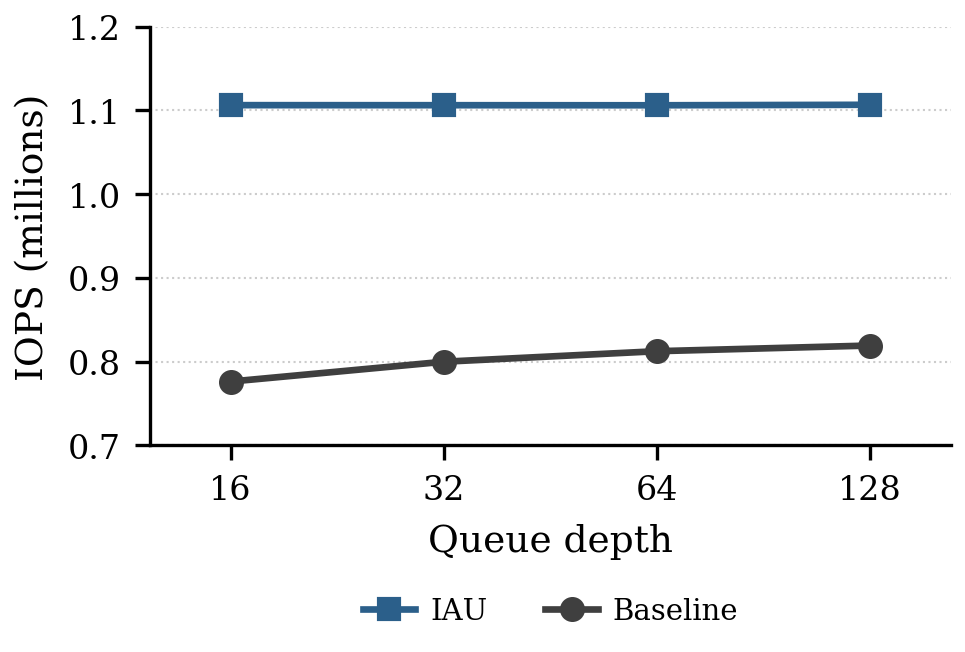
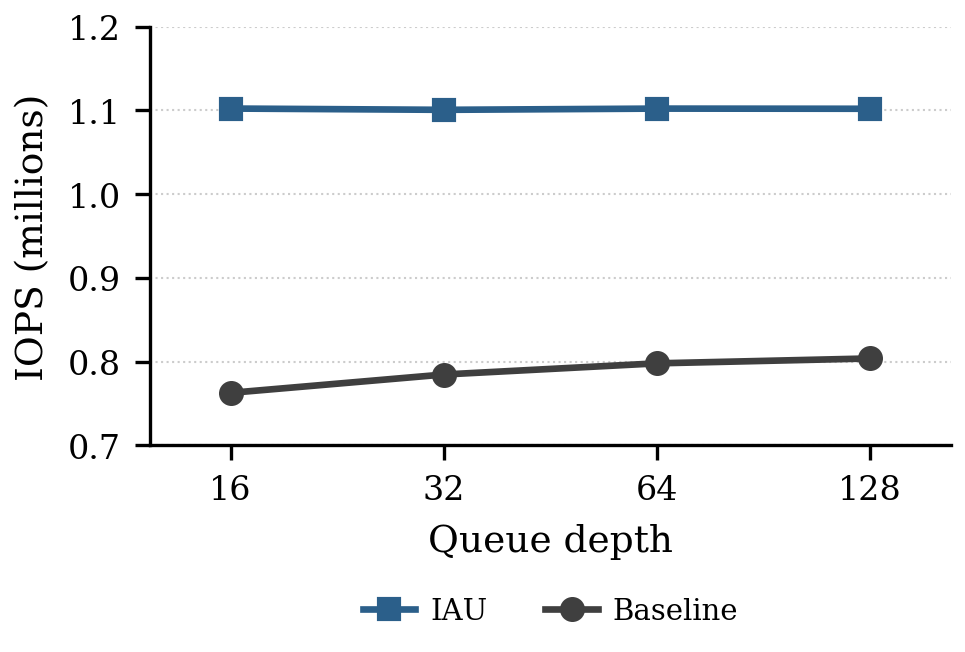
docs: present BigANN trace as the sole Evaluation workload
The synthetic 4 KB random-read and BigANN results are within ~2%, so §4 now
presents BigANN throughout and keeps the 4 KB run only as a one-line
robustness cross-check. Switch the QD-sweep plot to the BigANN CSVs and
update all §4 numbers to BigANN: 1.37x headline at QD=128 (0.804 -> 1.102 M),
budget 2,490 -> 1,815 cycles, poll collapse 219,100 -> 8,609, sweep lift
1.44/1.40/1.38/1.37x (peak 1.44x = the intro's "up to"), and the 2,490 ->
3,730 cyc/IO calibration. Ablation kept as a ratio (no BigANN ablation run
exists).

Changed region(s): [[0.2176, 0.5215, 0.9326, 0.6442], [0.2176, 0.1227, 0.9016, 0.184]]

diff --git a/scripts/plot_qd_sweep.py b/scripts/plot_qd_sweep.py
@@ -1,12 +1,12 @@
 #!/usr/bin/env python3
 """
 Queue-depth sweep for paper Section 4.2 (Figure F3, fig:qd_sweep): IOPS
-versus queue depth, vanilla SPDK baseline vs IAU, on the 4 KB random-read
-workload, 1 core / 1 qpair.
+versus queue depth, vanilla SPDK baseline vs IAU, on the DiskANN BigANN
+trace replay, 1 core / 1 qpair.
 
 This is the headline results figure. The load-bearing visual is the flat IAU
-IOPS curve: IAU saturates the host core at ~1.106 M IOPS for every queue
-depth, well above the baseline that only inches from 776 K to 819 K across an
+IOPS curve: IAU saturates the host core at ~1.102 M IOPS for every queue
+depth, well above the baseline that only inches from 763 K to 804 K across an
 8x queue-depth increase, identifying IAU as a new CPU-bound ceiling.
 
 Only IOPS is plotted. Cycles/IO is the exact inverse of IOPS (clock / IOPS),
@@ -15,12 +15,12 @@ overlap the baseline IOPS line and invite misreading; the per-stage cycle
 story already lives in fig:iau_breakdown. The cycles/IO equivalents are still
 printed to stdout for the prose in Section 4.
 
-Data sources (the two admissible rand4k runs; all QD rows)
-----------------------------------------------------------
+Data sources (the admissible BigANN trace runs; all QD rows)
+------------------------------------------------------------
   vanilla SPDK baseline:
-      results/rand4k_1c1qp/rand4k_mode0_20260510/core0_qp1/phase1_results.csv
+      results/bigann_trace_1c1qp/paper_trace_mode0_20260510/core0_qp1/phase1_results.csv
   IAU:
-      results/rand4k_1c1qp/rand4k_mode2_20260510/core0_qp1/phase1_results.csv
+      results/bigann_trace_1c1qp/paper_trace_mode2_20260510/core0_qp1/phase1_results.csv
 
 The transparent-IAU ablation (mode 1) is deliberately not plotted, per the
 Section 4 outline: its shallow-QD dip is a one-sentence ablation, not a curve.
@@ -58,9 +58,9 @@ matplotlib.use("Agg")
 import matplotlib.pyplot as plt
 
 
-BASELINE_CSV = ("results/rand4k_1c1qp/rand4k_mode0_20260510/"
+BASELINE_CSV = ("results/bigann_trace_1c1qp/paper_trace_mode0_20260510/"
                 "core0_qp1/phase1_results.csv")
-IAU_CSV = ("results/rand4k_1c1qp/rand4k_mode2_20260510/"
+IAU_CSV = ("results/bigann_trace_1c1qp/paper_trace_mode2_20260510/"
            "core0_qp1/phase1_results.csv")
 HOST_HZ = 2.0e9
 

diff --git a/docs/PAPER_DRAFT.md b/docs/PAPER_DRAFT.md
@@ -168,12 +168,12 @@ RTL synthesis at ASAP7 7nm across the four configurations yields 30K to 93K stan
 \subsection{Methodology}
 \label{sec:eval-method}
 
-We evaluate IAU on a full-system gem5~\cite{binkert2011gem5} x86 simulation running the unmodified \texttt{spdk\_nvme\_perf} workload against a SimpleSSD~\cite{jung2017simplessd} device. To keep the host CPU the binding constraint at the multi-million-IOPS regime, SimpleSSD uses an aggregate-timing fast path with an aggregate ceiling near 8~M IOPS, about ten times the single-queue host rate, following the device-modeling precedent of NVMeVirt~\cite{nvmevirt_fast23} and FEMU~\cite{femu_fast18} while keeping completion publication cycle-accurate. The host is a gem5 \texttt{AtomicSimpleCPU} at 2~GHz with no caches and \texttt{mem\_mode=atomic}, driving a single queue pair at queue depths from 16 to 128 over two workloads, synthetic 4~KB random reads and a DiskANN BigANN trace replay~\cite{diskann-github}. We report IOPS, cycles per I/O at the host clock, per-stage nanoseconds per I/O, and the completion-poll and per-mechanism correctness counters. The simplified host is what makes the sweep tractable, and because the vanilla SPDK baseline and IAU run under the identical model the host-side savings ratio cancels the host-model bias; the baseline budget of about 2{,}440 cycles per I/O at 2~GHz scales to about 3{,}660 at 3~GHz, inside the realistic 1{,}500 to 4{,}000 range for single-queue SPDK on production NVMe~\cite{Yang2017SPDKAD}.
+We evaluate IAU on a full-system gem5~\cite{binkert2011gem5} x86 simulation running the unmodified \texttt{spdk\_nvme\_perf} workload against a SimpleSSD~\cite{jung2017simplessd} device. To keep the host CPU the binding constraint at the multi-million-IOPS regime, SimpleSSD uses an aggregate-timing fast path with an aggregate ceiling near 8~M IOPS, about ten times the single-queue host rate, following the device-modeling precedent of NVMeVirt~\cite{nvmevirt_fast23} and FEMU~\cite{femu_fast18} while keeping completion publication cycle-accurate. The host is a gem5 \texttt{AtomicSimpleCPU} at 2~GHz with no caches and \texttt{mem\_mode=atomic}, driving a single queue pair at queue depths from 16 to 128 on a DiskANN BigANN trace replay of 1{,}225{,}846 4~KB reads~\cite{diskann-github}. We report IOPS, cycles per I/O at the host clock, per-stage nanoseconds per I/O, and the completion-poll and per-mechanism correctness counters. The simplified host is what makes the sweep tractable, and because the vanilla SPDK baseline and IAU run under the identical model the host-side savings ratio cancels the host-model bias; the baseline budget of about 2{,}490 cycles per I/O at 2~GHz scales to about 3{,}730 at 3~GHz, inside the realistic 1{,}500 to 4{,}000 range for single-queue SPDK on production NVMe~\cite{Yang2017SPDKAD}.
 
 \subsection{IAU results}
 \label{sec:eval-results}
 
-Section~\ref{subsec:perio} established that the vanilla SPDK baseline saturates near 0.82~M IOPS with a per-I/O budget flat across queue depth, and this section measures how much of that budget IAU removes. At QD=128 on 4~KB random reads, IAU sustains 1.106~M IOPS against the 0.819~M baseline, a 1.35$\times$ lift that cuts the per-I/O budget from about 2{,}440 to 1{,}810 cycles, and the DiskANN BigANN trace reproduces this at 1.102~M against its own 0.804~M baseline, a 1.37$\times$ lift on a non-synthetic access pattern.
+Section~\ref{subsec:perio} established that the vanilla SPDK baseline saturates near 0.8~M IOPS with a per-I/O budget flat across queue depth, and this section measures how much of that budget IAU removes on the DiskANN BigANN trace. At QD=128, IAU sustains 1.102~M IOPS against the 0.804~M baseline, a 1.37$\times$ lift that cuts the per-I/O budget from about 2{,}490 to 1{,}815 cycles.
 
 \begin{figure}[t]
 \centering
@@ -182,23 +182,23 @@ Section~\ref{subsec:perio} established that the vanilla SPDK baseline saturates 
 \label{fig:iau_breakdown}
 \end{figure}
 
-Figure~\ref{fig:iau_breakdown} attributes the saving to the submission side. The SQ Engine's on-die SQE and PRP-list construction collapses the dominant stages, with address translation falling from 357 to 157~ns and tracker allocation from 236 to 221~ns on the BigANN trace, while the completion handler survives nearly intact because the host still runs the user callback and the larger completion saving awaits the deferred dispatcher of \S\ref{sec:iau-mechanisms}. The completion-poll counters confirm that the completion-side coherence cost of \S\ref{subsec:NVMEQE} is removed. At QD=128 the baseline issues 223{,}698 \texttt{process\_completions} calls of which about 97\% return zero completions, whereas under IAU the count collapses to 8{,}646 with no empty polls and 128 completions per call, since the CQ Engine's readiness hint replaces the empty ring scan with a single on-die status-register read.
+Figure~\ref{fig:iau_breakdown} attributes the saving to the submission side. The SQ Engine's on-die SQE and PRP-list construction collapses the dominant stages, with address translation falling from 357 to 157~ns and tracker allocation from 236 to 221~ns on the BigANN trace, while the completion handler survives nearly intact because the host still runs the user callback and the larger completion saving awaits the deferred dispatcher of \S\ref{sec:iau-mechanisms}. The completion-poll counters confirm that the completion-side coherence cost of \S\ref{subsec:NVMEQE} is removed. At QD=128 the baseline issues 219{,}100 \texttt{process\_completions} calls of which about 97\% return zero completions, whereas under IAU the count collapses to 8{,}609 with no empty polls and 128 completions per call, since the CQ Engine's readiness hint replaces the empty ring scan with a single on-die status-register read.
 
 \begin{figure}[t]
 \centering
 \includegraphics[width=\columnwidth]{img/qd_sweep.png}
-\caption{IOPS versus queue depth for the vanilla SPDK baseline and IAU on 4~KB random reads. IAU's IOPS stays flat across the sweep, marking a new CPU-bound ceiling well above the baseline and well below the device aggregate.}
+\caption{IOPS versus queue depth for the vanilla SPDK baseline and IAU on the DiskANN BigANN trace. IAU's IOPS stays flat across the sweep, marking a new CPU-bound ceiling well above the baseline and well below the device aggregate.}
 \label{fig:qd_sweep}
 \end{figure}
 
-Two further results fix the design boundary. A transparent-IAU ablation that activates the uncore behind an unmodified SPDK reaches only 0.808~M IOPS at QD=128, about 0.99$\times$ the baseline, because batching completions alone cannot move a submission-dominated budget; the lift therefore requires the small host-side mailbox enablement of \S\ref{sec:iau-placement} rather than a fully transparent design. As Figure~\ref{fig:qd_sweep} shows, IAU's throughput is essentially flat at roughly 1.106~M IOPS for every queue depth, equivalently a per-I/O budget near 1{,}810 cycles, marking a new CPU-bound ceiling well below the 8~M device aggregate that the deferred completion-callback dispatcher is left to close. IAU is flat because the CQ Engine's hint already reaps a full completion batch per poll at every queue depth, leaving the host compute-bound on the per-I/O residual from QD=16 onward, so IAU delivers peak throughput at the shallow queue depths that also minimize latency, whereas the baseline must deepen its queue to approach its lower ceiling.
+Two further results fix the design boundary. A transparent-IAU ablation that activates the uncore behind an unmodified SPDK reaches only about 0.99$\times$ the baseline, because batching completions alone cannot move a submission-dominated budget; the lift therefore requires the small host-side mailbox enablement of \S\ref{sec:iau-placement} rather than a fully transparent design. As Figure~\ref{fig:qd_sweep} shows, IAU's throughput is essentially flat at roughly 1.102~M IOPS for every queue depth, equivalently a per-I/O budget near 1{,}815 cycles, marking a new CPU-bound ceiling well below the 8~M device aggregate that the deferred completion-callback dispatcher is left to close. IAU is flat because the CQ Engine's hint already reaps a full completion batch per poll at every queue depth, leaving the host compute-bound on the per-I/O residual from QD=16 onward, so IAU delivers peak throughput at the shallow queue depths that also minimize latency, whereas the baseline must deepen its queue to approach its lower ceiling.
 
 \subsection{Robustness and threats to validity}
 \label{sec:eval-threats}
 
-The lift is sustained across the whole sweep, running 1.43, 1.38, 1.36, 1.35$\times$ on 4~KB random reads and 1.44, 1.40, 1.38, 1.37$\times$ on the BigANN trace from QD=16 to QD=128, always above 1.0 and largest at shallow depth where each I/O's per-stage saving matters most; the peak 1.44$\times$ at BigANN QD=16 is the up-to figure quoted in the introduction. Across the sweep the uncore counters balance, with \texttt{mailbox\_submissions}, \texttt{free\_cid\_pops}, and \texttt{cqes\_published} equal and no starvations or oversize fallbacks, so no I/O is dropped or misrouted.
+The lift is sustained across the whole sweep, running 1.44, 1.40, 1.38, 1.37$\times$ from QD=16 to QD=128, always above 1.0 and largest at shallow depth where each I/O's per-stage saving matters most, with the peak 1.44$\times$ at QD=16 the up-to figure quoted in the introduction; a synthetic 4~KB random-read workload reproduces the same lift within 2\%. Across the sweep the uncore counters balance, with \texttt{mailbox\_submissions}, \texttt{free\_cid\_pops}, and \texttt{cqes\_published} equal and no starvations or oversize fallbacks, so no I/O is dropped or misrouted.
 
-Four modeling choices bound these results. The \texttt{AtomicSimpleCPU} host captures per-I/O instruction count and DRAM latency but not coherence or out-of-order execution, so the absolute cycle counts are not a specific-CPU match; the load-bearing claim is the same-simulator baseline-to-IAU delta and its BigANN reproduction, and the measured lift is plausibly a lower bound because the coherence and DMA-invalidation costs IAU additionally removes are unmodeled here. The device's 8~M aggregate ceiling sits about ten times above the observed rates, so it neither gates nor contaminates the baseline. The evaluated mailbox model implements the single-page fast path that the 4~KB and 16~KB target workload exercises, while the synthesized RTL of \S\ref{sec:iau-sram} covers full PRP expansion to 128~KB, so the architecture is not narrower than what was built. Finally, the DRAM compatibility mirror is a design feature not implemented in the evaluated model, so the reported savings come entirely from the mailbox engine, the hardware CID ring, and the typed hint rather than from any modeled DRAM-traffic change, and all results are single-core and single-queue-pair, leaving multi-queue-pair scaling an open gap.
+Four modeling choices bound these results. The \texttt{AtomicSimpleCPU} host captures per-I/O instruction count and DRAM latency but not coherence or out-of-order execution, so the absolute cycle counts are not a specific-CPU match; the load-bearing claim is the same-simulator baseline-to-IAU delta, and the measured lift is plausibly a lower bound because the coherence and DMA-invalidation costs IAU additionally removes are unmodeled here. The device's 8~M aggregate ceiling sits about ten times above the observed rates, so it neither gates nor contaminates the baseline. The evaluated mailbox model implements the single-page fast path that the 4~KB and 16~KB target workload exercises, while the synthesized RTL of \S\ref{sec:iau-sram} covers full PRP expansion to 128~KB, so the architecture is not narrower than what was built. Finally, the DRAM compatibility mirror is a design feature not implemented in the evaluated model, so the reported savings come entirely from the mailbox engine, the hardware CID ring, and the typed hint rather than from any modeled DRAM-traffic change, and all results are single-core and single-queue-pair, leaving multi-queue-pair scaling an open gap.
 
 %%%%%%%%%%%%%%%%%%%%%%%%%%%%%%%%%%%%%%%%%%%%%%%%%%%%%%%%%%%%%%
 %%%%%%%%%%%%%%%%%%%%%%%%%%%%%%%%%%%%%%%%%%%%%%%%%%%%%%%%%%%%%%
